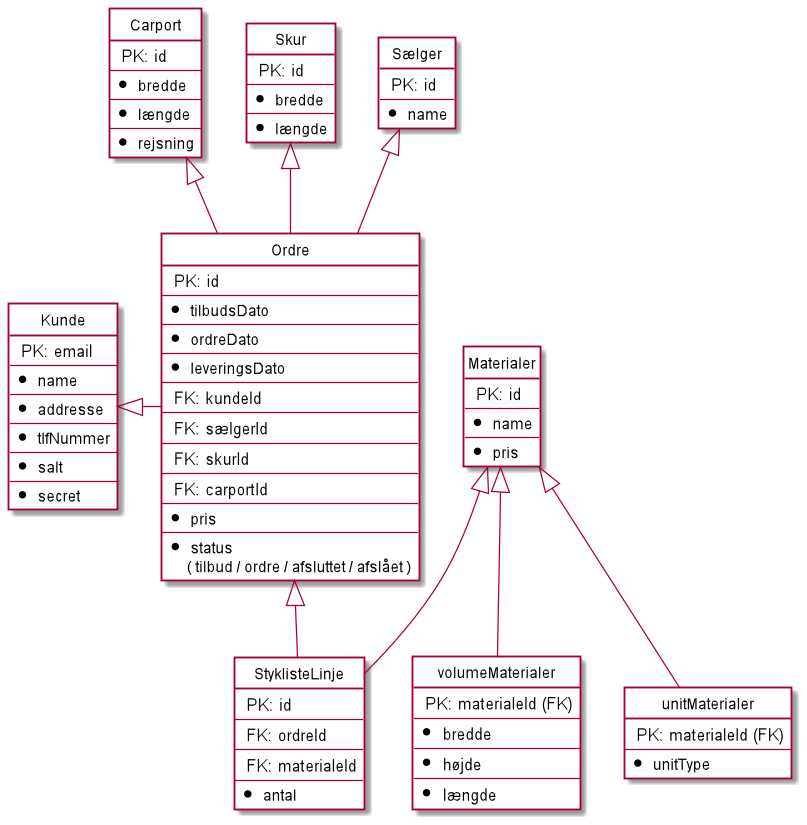
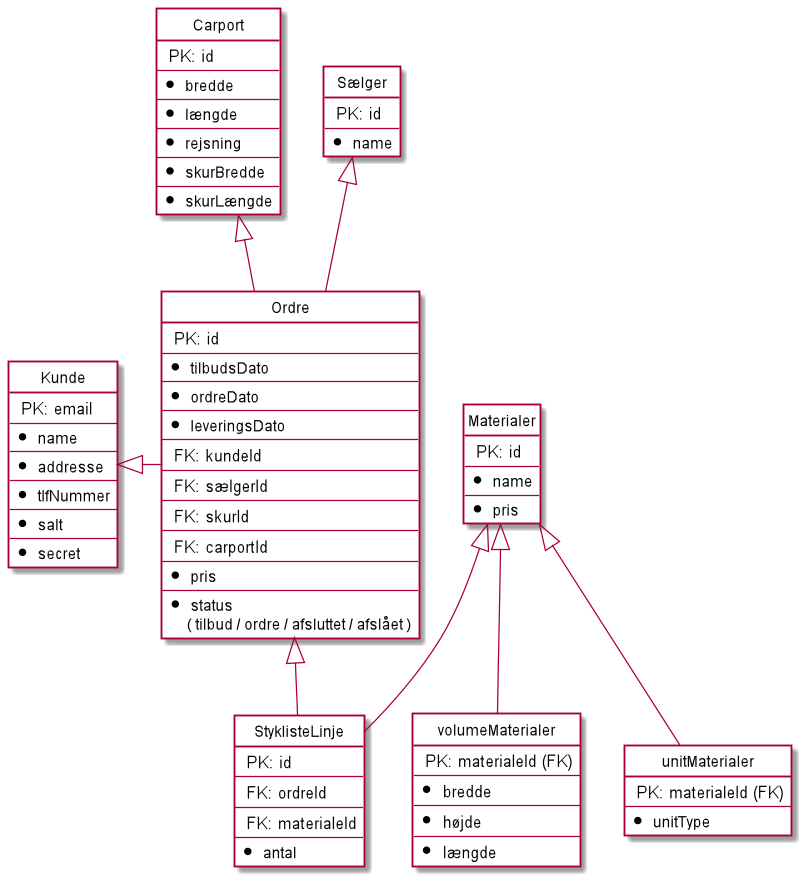
DB update + bestilling links fix

diff --git a/src/main/java/web/pages/Bestilling.java b/src/main/java/web/pages/Bestilling.java
@@ -1,5 +1,6 @@
 package web.pages;
 
+import domain.items.CarportFactory;
 import infrastructure.Lists;
 import web.BaseServlet;
 
@@ -7,6 +8,7 @@ import javax.servlet.ServletException;
 import javax.servlet.annotation.WebServlet;
 import javax.servlet.http.HttpServletRequest;
 import javax.servlet.http.HttpServletResponse;
+import javax.servlet.http.HttpSession;
 import java.io.IOException;
 import java.util.List;
 
@@ -35,6 +37,17 @@ public class Bestilling extends BaseServlet {
 
     @Override
     protected void doPost(HttpServletRequest req, HttpServletResponse resp) throws ServletException, IOException {
+
+        CarportFactory factory = api.createCarport();
+
+
+
+
+        int bredde = Integer.parseInt(req.getParameter("bredde"));
+
+
+
+
 
     }
 }

diff --git a/src/main/java/infrastructure/DBCarportRepository.java b/src/main/java/infrastructure/DBCarportRepository.java
@@ -1,16 +1,21 @@
 package infrastructure;
 
 import domain.items.Carport;
+import domain.items.CarportFactory;
 import domain.items.CarportRepository;
 
 import domain.items.DBException;
 
 public class DBCarportRepository implements CarportRepository {
 
+    private final Database db;
+
+    public DBCarportRepository(Database db) {
+        this.db = db;
+    }
 
     @Override
     public Iterable<Carport> findAll() throws DBException {
-
         return null;
     }
 
@@ -19,5 +24,10 @@ public class DBCarportRepository implements CarportRepository {
     public Carport find(int parseInt) throws DBException {
         return null;
 
+    }
+
+    @Override
+    public CarportFactory create() {
+        return null;
     }
 }

diff --git a/src/main/java/web/BaseServlet.java b/src/main/java/web/BaseServlet.java
@@ -1,6 +1,7 @@
 package web;
 
 import api.Webapp;
+import infrastructure.DBCarportRepository;
 import infrastructure.DBOrderRepository;
 import infrastructure.Database;
 
@@ -20,10 +21,10 @@ public class BaseServlet extends HttpServlet {
     
     private static Webapp createApplication() {
         Database db=new Database();
-        return new Webapp(new DBOrderRepository(db));
+        return new Webapp(new DBOrderRepository(db), new DBCarportRepository(db));
     }
     
-    
+
     protected void render(String title, String content, HttpServletRequest req, HttpServletResponse resp)
             throws ServletException, IOException {
         req.setCharacterEncoding("UTF-8");

diff --git a/src/main/java/infrastructure/Database.java b/src/main/java/infrastructure/Database.java
@@ -10,7 +10,7 @@ public class Database {
     static final String JDBC_DRIVER = "com.mysql.cj.jdbc.Driver";
     static final String DB_URL = "jdbc:mysql://" + DB_SERVER + "/" + SCHEMA_NAME + "?serverTimezone=" + TimeZone.getDefault().getID();
     // Database version
-    private static final int version = 1;
+    private static final int version = 2;
     public Database() {
         try {
             Class.forName(JDBC_DRIVER);

diff --git a/src/main/java/domain/items/Carport.java b/src/main/java/domain/items/Carport.java
@@ -7,8 +7,6 @@ public class Carport {
     int lenght;
     Shed shed;
 
-
-
     public Carport(String type, int carportID, int width, int lenght, Shed shed) {
         this.type = type;
         this.carportID = carportID;

diff --git a/src/main/java/domain/items/CarportRepository.java b/src/main/java/domain/items/CarportRepository.java
@@ -4,4 +4,6 @@ public interface CarportRepository {
 
     Iterable <Carport> findAll() throws DBException;
     Carport find(int parseInt) throws DBException;
+
+    CarportFactory create();
 }
